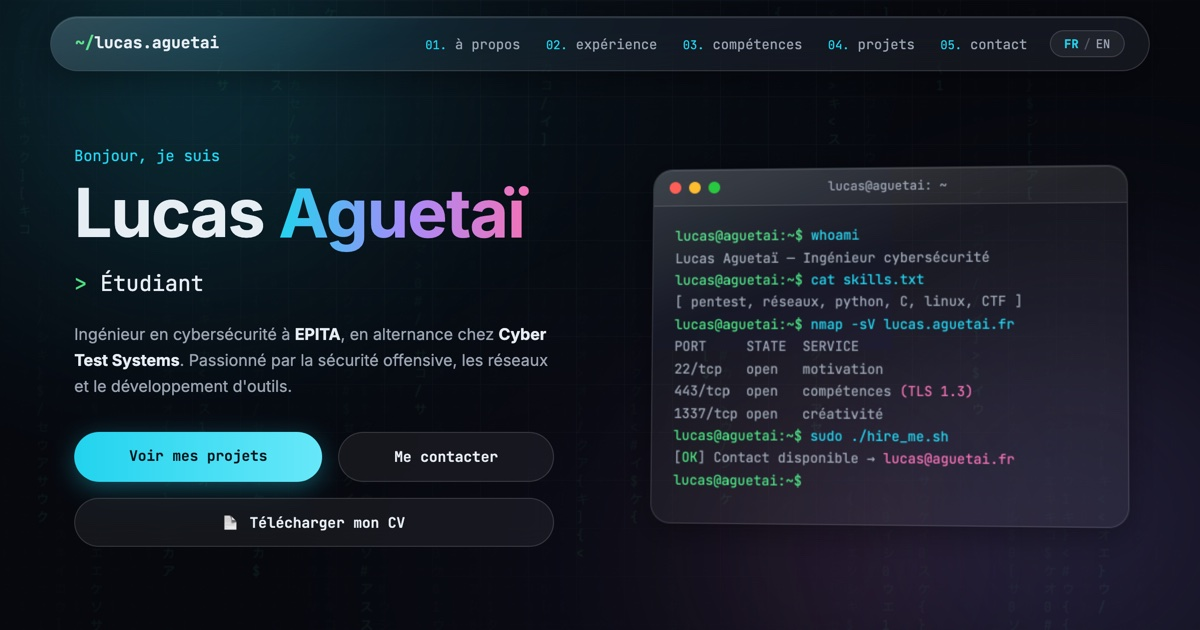
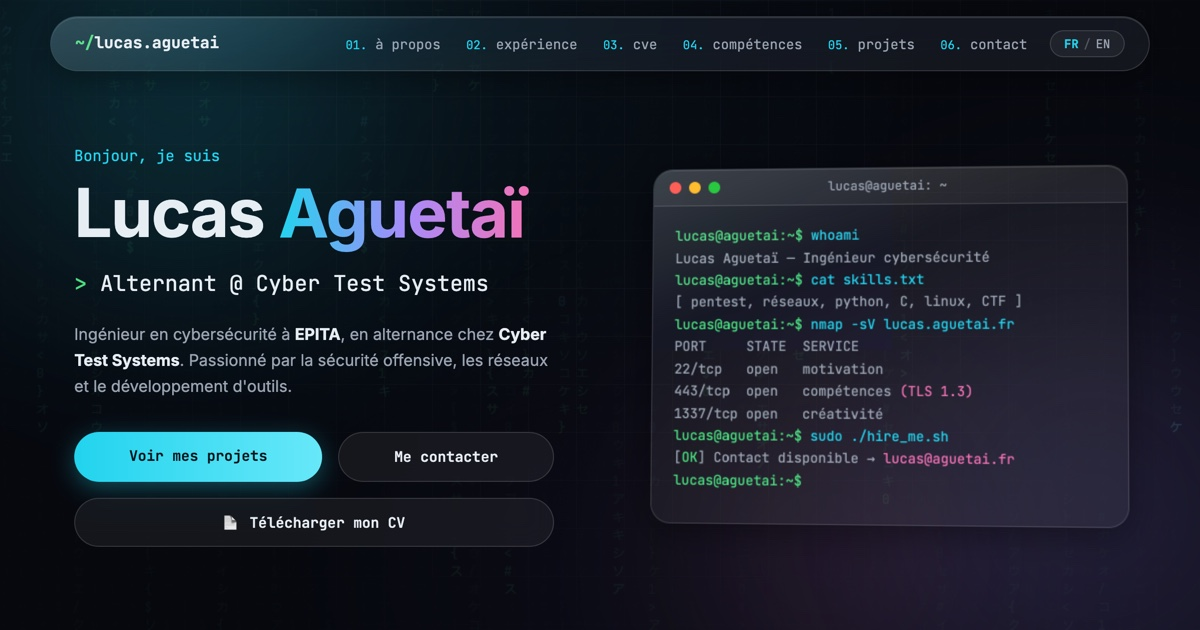
Images renommées à mon nom, sitemap enrichi et carte sociale refaite

Changed region(s): [[0.0617, 0.4222, 0.4008, 0.4825], [0.2775, 0.0603, 0.555, 0.0905]]

diff --git a/index.html b/index.html
@@ -12,7 +12,7 @@
   <meta property="og:url" content="https://lucas.aguetai.fr/">
   <meta property="og:title" content="Lucas Aguetaï — Ingénieur Cybersécurité">
   <meta property="og:description" content="Portfolio de Lucas Aguetaï, ingénieur en cybersécurité à EPITA, en alternance chez Cyber Test Systems.">
-  <meta property="og:image" content="https://lucas.aguetai.fr/assets/og-image.jpg">
+  <meta property="og:image" content="https://lucas.aguetai.fr/assets/lucas-aguetai.jpg">
   <meta property="og:image:width" content="1200">
   <meta property="og:image:height" content="630">
   <meta property="og:locale" content="fr_FR">
@@ -22,7 +22,7 @@
   <meta name="twitter:card" content="summary_large_image">
   <meta name="twitter:title" content="Lucas Aguetaï — Ingénieur Cybersécurité">
   <meta name="twitter:description" content="Portfolio de Lucas Aguetaï, ingénieur en cybersécurité à EPITA, en alternance chez Cyber Test Systems.">
-  <meta name="twitter:image" content="https://lucas.aguetai.fr/assets/og-image.jpg">
+  <meta name="twitter:image" content="https://lucas.aguetai.fr/assets/lucas-aguetai.jpg">
 
   <!-- Données structurées -->
   <script type="application/ld+json">
@@ -31,7 +31,7 @@
     "@type": "Person",
     "name": "Lucas Aguetaï",
     "url": "https://lucas.aguetai.fr/",
-    "image": "https://lucas.aguetai.fr/assets/og-image.jpg",
+    "image": "https://lucas.aguetai.fr/assets/lucas-aguetai-portrait.png",
     "jobTitle": "Apprenti ingénieur cybersécurité",
     "worksFor": { "@type": "Organization", "name": "Cyber Test Systems" },
     "alumniOf": [
@@ -131,7 +131,7 @@
       <div class="about-grid">
         <div class="glass about-photo">
           <div class="photo-halo" aria-hidden="true"></div>
-          <img src="assets/portrait.png" alt="Portrait de Lucas Aguetaï">
+          <img src="assets/lucas-aguetai-portrait.png" alt="Lucas Aguetaï, étudiant-ingénieur en cybersécurité à EPITA" width="432" height="578">
         </div>
         <div class="glass card about-text">
           <p data-i18n="about-p1">
@@ -305,7 +305,7 @@
       <h2 class="section-title" data-i18n="title-projects"><span class="section-index mono">05.</span> Projets</h2>
       <div class="glass pe-card">
         <div class="pe-image">
-          <img src="assets/pacific-endeavor.jpg" alt="Lucas Aguetaï accompagnant un participant lors de Pacific Endeavor" loading="lazy">
+          <img src="assets/lucas-aguetai-pacific-endeavor.jpg" alt="Lucas Aguetaï accompagnant un participant lors de Pacific Endeavor" loading="lazy">
           <span class="pe-caption mono glass">📍 Pacific Endeavor</span>
         </div>
         <div class="pe-content">
@@ -330,7 +330,7 @@
       </div>
       <div class="glass pe-card pe-flip">
         <div class="pe-image">
-          <img src="assets/eurosatory.jpg" alt="Lucas Aguetaï sur le stand Cyber Test Systems à Eurosatory 2024" loading="lazy">
+          <img src="assets/lucas-aguetai-eurosatory-2024.jpg" alt="Lucas Aguetaï sur le stand Cyber Test Systems à Eurosatory 2024" loading="lazy">
           <span class="pe-caption mono glass">📍 Eurosatory 2024</span>
         </div>
         <div class="pe-content">

diff --git a/style.css b/style.css
@@ -463,6 +463,9 @@ body {
   position: relative;
   display: block;
   width: 100%;
+  /* les attributs width/height du HTML évitent le décalage au chargement ;
+     height:auto empêche la hauteur de s'appliquer telle quelle */
+  height: auto;
   margin-top: auto;
   filter: drop-shadow(0 14px 30px rgba(0, 0, 0, 0.55));
 }
